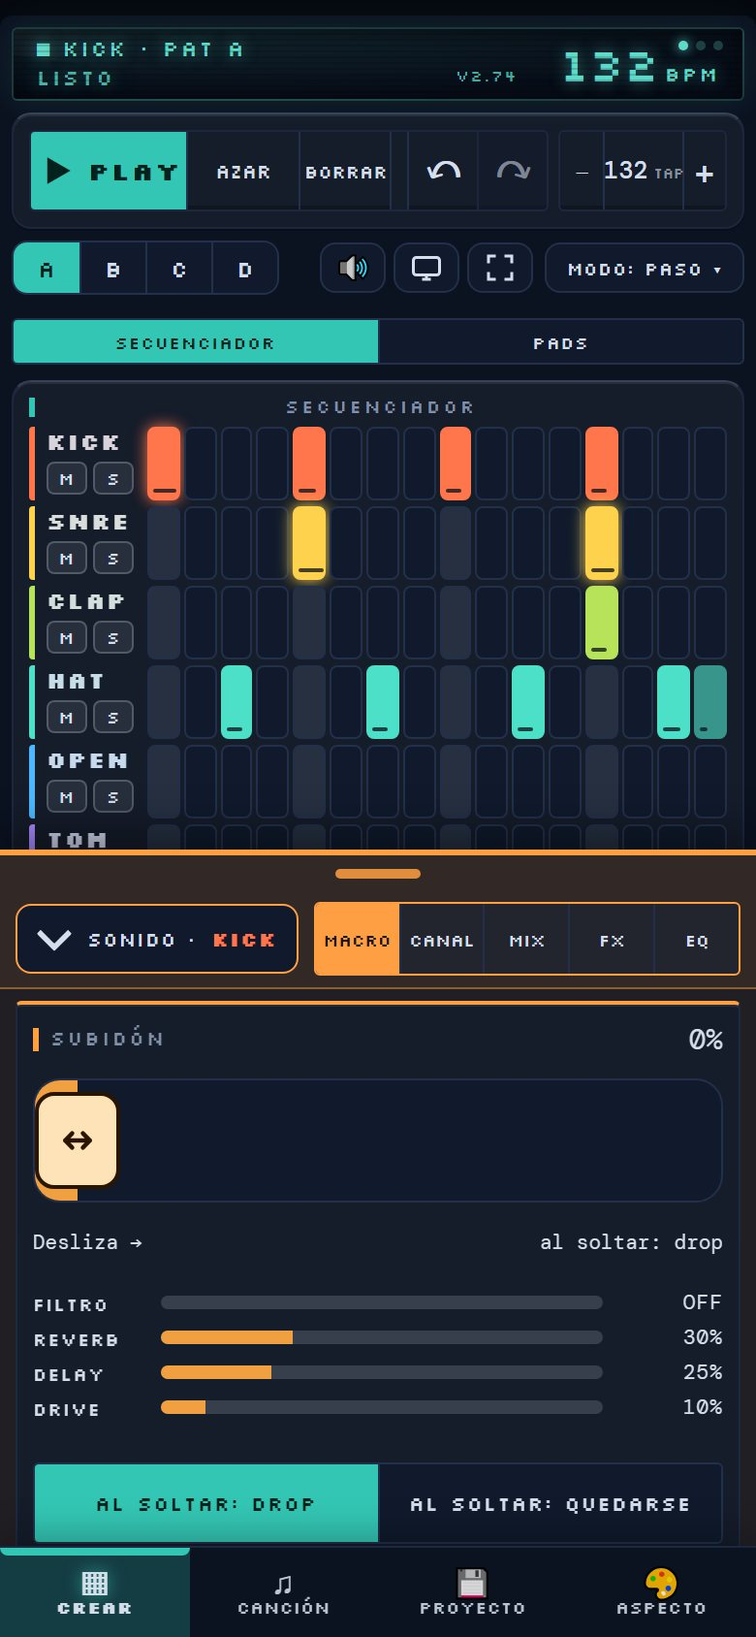
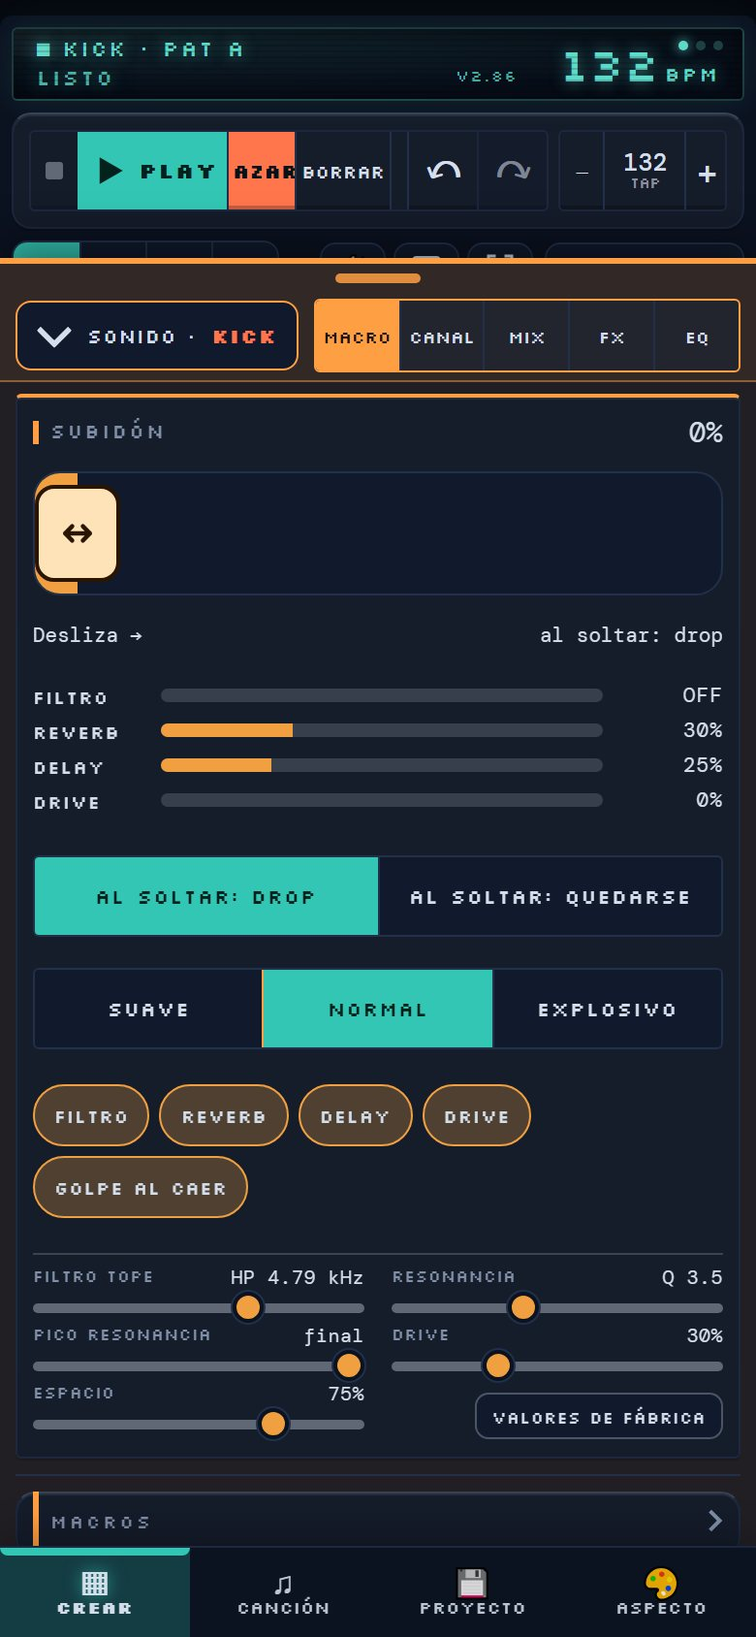
Manual actualizado a la v2.86: capturas nuevas y secciones reescritas
- Capturas nuevas de todas las pantallas (390x844, doble resolucion) y 4 nuevas: Pads Notas, Piano roll, Piano roll de bateria y master de Mix.
- Secciones nuevas o reescritas: Transporte (Stop, Pausa, Azar muta), Pads, Piano roll, Mix (Limitador, Master), FX, EQ y Consejos.
- tools/capturas-manual.js regenera las capturas con Chrome sin pantalla.

diff --git a/tools/capturas-manual.js b/tools/capturas-manual.js
@@ -1,0 +1,83 @@
+/* Genera las capturas del manual (manual/img) con Chrome sin pantalla.
+   Uso:  1) python -m http.server 5179   (desde la carpeta del proyecto)
+         2) node tools/capturas-manual.js
+   Necesita Chrome en la ruta de Windows habitual y Node 22 o superior (usa WebSocket y fetch propios).
+   Las capturas salen a 390x844 con carátula Neón, a doble resolución. */
+const { spawn } = require('child_process'), fs = require('fs'), path = require('path'), os = require('os');
+const CHROME = process.env.CHROME || 'C:/Program Files/Google/Chrome/Application/chrome.exe';
+const URL = process.env.APP || 'http://localhost:5179/index.html';
+const OUT = path.join(__dirname, '..', 'manual', 'img');
+const PORT = 9333, sleep = ms => new Promise(r => setTimeout(r, ms));
+
+(async () => {
+  fs.mkdirSync(OUT, { recursive: true });
+  const prof = fs.mkdtempSync(path.join(os.tmpdir(), 'pulso-cap-'));
+  const ch = spawn(CHROME, ['--headless=new', '--remote-debugging-port=' + PORT, '--user-data-dir=' + prof, '--hide-scrollbars',
+    '--autoplay-policy=no-user-gesture-required', '--no-first-run', '--window-size=390,844', 'about:blank'], { stdio: 'ignore' });
+  let tabs;
+  for (let i = 0; i < 40; i++) { try { tabs = await (await fetch('http://127.0.0.1:' + PORT + '/json')).json(); if (tabs.find(t => t.type === 'page')) break } catch (e) {} await sleep(250) }
+  const ws = new WebSocket(tabs.find(t => t.type === 'page').webSocketDebuggerUrl);
+  await new Promise(r => ws.onopen = r);
+  let id = 0; const pend = new Map();
+  ws.onmessage = e => { const m = JSON.parse(e.data); if (m.id && pend.has(m.id)) { pend.get(m.id)(m); pend.delete(m.id) } };
+  const send = (method, params = {}) => new Promise(res => { const i = ++id; pend.set(i, res); ws.send(JSON.stringify({ id: i, method, params })) });
+  const ev = async expr => { const r = await send('Runtime.evaluate', { expression: expr, awaitPromise: true, returnByValue: true }); if (r.result.exceptionDetails) throw new Error(expr.slice(0, 80) + ' -> ' + JSON.stringify(r.result.exceptionDetails.exception || r.result.exceptionDetails)); return r.result.result.value };
+  const shot = async (name, clip) => { const r = await send('Page.captureScreenshot', { format: 'jpeg', quality: 84, ...(clip ? { clip: { x: clip.x, y: clip.y, width: clip.w, height: clip.h, scale: 1 } } : {}) }); fs.writeFileSync(path.join(OUT, name), Buffer.from(r.result.data, 'base64')); console.log('ok', name) };
+  const rect = async sel => ev(`(()=>{const e=document.querySelector(${JSON.stringify(sel)});const r=e.getBoundingClientRect();return{x:Math.max(0,r.left-4),y:Math.max(0,r.top+scrollY-4),w:Math.min(innerWidth,r.width+8),h:r.height+8}})()`);
+
+  await send('Page.enable'); await send('Runtime.enable');
+  await send('Emulation.setDeviceMetricsOverride', { width: 390, height: 844, deviceScaleFactor: 2, mobile: true });
+  const load = async () => { await send('Page.navigate', { url: URL }); await sleep(1800); await ev(`(()=>{const s=document.createElement('style');s.textContent='*{transition:none!important;animation:none!important}';document.head.appendChild(s);
+    window.$$=s=>[...document.querySelectorAll(s)];window.wait=ms=>new Promise(r=>setTimeout(r,ms));
+    window.go=async(g,t,d)=>{$$('#tabs button').find(b=>b.dataset.g===g).click();await wait(250);if(t){const b=$$('#subs button').find(x=>x.dataset.t===t);if(b){b.click();await wait(300)}}
+      const q=s=>document.querySelector(s),open=q('#sndTog').getAttribute('aria-expanded')==='true';
+      if(d==='closed'&&open){q('#sndTog').click();await wait(250)}
+      if(d&&d!=='closed'){if(!open){q('#sndTog').click();await wait(250)}$$('#sndTabs button').find(b=>b.dataset.t===d).click();await wait(450)}
+      window.scrollTo(0,0)};return 1})()`) };
+  await load(); await ev('localStorage.clear()'); await load();
+
+  // 1. Crear y secuenciador
+  await ev(`go('crear','seq','closed')`);
+  await shot('01-crear.jpg');
+  const head = await ev(`(()=>{const a=document.querySelector('.trans').getBoundingClientRect(),b=document.querySelector('.prow').getBoundingClientRect();return{x:0,y:a.top-6,w:innerWidth,h:b.bottom-a.top+12}})()`);
+  await shot('02-transporte.jpg', head);
+  await shot('03-rejilla.jpg', await rect('#grid'));
+  await ev(`document.querySelector('#modeB').click()`); await sleep(500);
+  await shot('04-modos.jpg');
+  await load();
+
+  // 2. Pads y piano roll
+  await ev(`go('crear','pads','closed')`); await shot('05-pads.jpg');
+  await ev(`(async()=>{document.querySelector('#padMel').click();await wait(300);$$('#padSnd button').find(b=>b.textContent==='ACID').click();await wait(400)})()`);
+  await shot('05b-pads-notas.jpg');
+  await ev(`go('crear','roll','closed')`);
+  await ev(`(async()=>{$$('#rollSnd button').find(b=>b.textContent==='ACID').click();await wait(400)})()`);
+  await shot('05c-piano-roll.jpg');
+  await ev(`(async()=>{$$('#rollSnd button').find(b=>b.textContent==='KICK').click();await wait(400)})()`);
+  await shot('05d-piano-roll-bateria.jpg');
+
+  // 3. Canción, proyecto y aspecto
+  await ev(`go('song',null,'closed')`); await shot('06-cancion.jpg');
+  await ev(`go('file',null,'closed')`); await shot('07-proyecto.jpg');
+  await ev(`go('look',null,'closed')`); await shot('08-aspecto.jpg');
+  await ev(`window.scrollTo(0,document.body.scrollHeight)`); await sleep(300); await shot('08b-aspecto-manual.jpg');
+
+  // 4. Panel Sonido (se agranda el panel para que se vea mas contenido)
+  const dock = async (tab, extra) => { await ev(`go('crear','seq','${tab}')`); await ev(`(async()=>{const b=document.querySelector('#sndBody');b.style.maxHeight='600px';b.scrollTop=0;await wait(300)})()`); if (extra) await ev(extra); await sleep(200) };
+  await dock('macro'); await shot('09-macro.jpg');
+  await ev(`(async()=>{const b=document.querySelector('#sndBody');b.scrollTop=b.scrollHeight;await wait(300)})()`); await shot('10-macro-ajustes.jpg');
+  await dock('canal'); await shot('11-canal.jpg');
+  await dock('mix', `(async()=>{document.querySelector('#play').click();await wait(2600)})()`);
+  await shot('12-mix.jpg');
+  await ev(`(async()=>{if(document.querySelector('#mixMstFx').hidden)document.querySelector('#mstTog').click();await wait(300);const b=document.querySelector('#sndBody');b.scrollTop+=document.querySelector('#mixMst').getBoundingClientRect().top-b.getBoundingClientRect().top-4;await wait(300)})()`);
+  await shot('12b-mix-master.jpg');
+  await ev(`document.querySelector('#stopb').click()`);
+  await dock('fx', `(async()=>{$$('.fxnav button').find(b=>b.textContent.includes('Master')).click();await wait(500);const b=document.querySelector('#sndBody');b.scrollTop+=document.querySelector('#fx_ms').getBoundingClientRect().top-b.getBoundingClientRect().top-4;await wait(300)})()`);
+  await shot('13-fx.jpg');
+  await dock('eq', `(async()=>{const b=document.querySelector('#sndBody');b.scrollTop+=document.querySelector('#eqc').getBoundingClientRect().top-b.getBoundingClientRect().top-30;await wait(300)})()`);
+  await shot('14-eq.jpg');
+
+  ws.close(); ch.kill();
+  try { fs.rmSync(prof, { recursive: true, force: true }) } catch (e) {}
+  process.exit(0);
+})().catch(e => { console.error('ERROR', e.message); process.exit(1) });

diff --git a/MANUAL.md b/MANUAL.md
@@ -1,10 +1,10 @@
 # Manual de Pulso Studio
 
-Pulso Studio es una **groovebox para el móvil** que funciona en el navegador: baterías, bajos y sintes, patrones, efectos y exportación a WAV, todo sin instalar nada.
+Pulso Studio es una **groovebox para el móvil** que funciona en el navegador: baterías, bajos y sintes, patrones, piano roll, efectos y exportación a WAV, todo sin instalar nada.
 
 Este manual explica cada pantalla con capturas. Las capturas usan la carátula **Neón**, pero todo funciona igual con las demás.
 
-> **Versión:** en la pantallita de la app, arriba a la derecha, pone la versión que tienes cargada (por ejemplo `v2.74`).
+> **Versión:** en la pantallita de la app, arriba a la derecha, pone la versión que tienes cargada (por ejemplo `v2.86`).
 
 ## 1. Primeros pasos
 
@@ -15,8 +15,8 @@ Abre la web en el navegador del móvil. Verás la pantalla de **Crear**: arriba 
 La pantalla se divide en cuatro zonas:
 
 - **Pantallita (LCD):** muestra el canal y el patrón elegidos, el estado y el tempo en BPM. Desliza el dedo por ella para cambiar de patrón A–D. Toca para cambiar entre onda y espectro.
-- **Transporte y patrones:** Play, Azar, Borrar, deshacer, rehacer, tempo y los patrones A B C D.
-- **Rejilla:** 10 pistas (canales) con sus pasos.
+- **Transporte y patrones:** Stop, Play, Azar, Borrar, deshacer, rehacer, tempo y los patrones A B C D.
+- **Vistas de Crear:** debajo de los patrones hay tres vistas: **Secuenciador** (la rejilla), **Pads** (tocar en directo) y **Piano roll** (dibujar notas).
 - **Panel Sonido y barra inferior:** el panel Sonido (Macro, Canal, Mix, FX, EQ) y las cuatro pestañas **Crear, Canción, Proyecto y Aspecto**.
 
 > **Consejo:** para usarla como una app, añade la web a la pantalla de inicio desde el menú del navegador. Se abre sin barras y a pantalla casi completa.
@@ -31,7 +31,7 @@ La rejilla tiene **10 pistas**, una por fila: seis baterías (**KICK, SNRE, CLAP
 - **Arrastrar en horizontal** pinta varios pasos de una pasada.
 - **Mantener pulsado** un paso encendido cambia su fuerza (suave, normal o fuerte).
 - **M** silencia la pista (mute) y **S** la deja sola (solo).
-- **Tocar el nombre** de la pista la elige: los controles del panel Sonido pasan a ese canal.
+- **Tocar el nombre** de la pista la elige: los controles del panel Sonido, el color del botón Azar y el ecualizador pasan a ese canal.
 - En las pistas melódicas, la fila **NOTA** debajo de la rejilla elige la nota de cada paso.
 
 ### Modos de paso
@@ -59,8 +59,9 @@ Bajo la rejilla, **Más herramientas** guarda funciones menos frecuentes:
 
 ![Transporte, patrones y botones de vista](manual/img/02-transporte.jpg)
 
-- **Play / Stop:** el botón grande. De color de acento para reproducir y rojo al sonar. Parar y volver a pulsar **empieza desde el principio**.
-- **Azar:** rellena la pista elegida con un patrón al azar, usando la escala del proyecto.
+- **Stop (el cuadrado, a la izquierda de Play):** para el sonido y vuelve al principio.
+- **Play / Pausa:** Play reproduce. Mientras suena, el botón pasa a **Pausa** (en rojo). Pausar **deja el paso donde estaba**, con la posición iluminada, y Play sigue desde ese mismo paso. Para volver al principio, usa Stop.
+- **Azar:** **muta** la pista elegida: cambia solo unos pocos pasos (cerca del 20 %) y deja el resto. Si la pista está vacía, genera un patrón nuevo con la escala del proyecto. El botón toma el color de la pista elegida. Se puede deshacer.
 - **Borrar:** vacía la pista elegida del patrón actual.
 - **Deshacer y rehacer:** ver más abajo.
 - **Tempo:** `−` y `+` cambian el BPM de uno en uno. Toca el número varias veces al ritmo que quieras para marcar el tempo (**TAP**). El tempo por defecto es **132**.
@@ -78,20 +79,51 @@ Deshacer y rehacer guardan **todo el proyecto**, no solo las notas: secuencia, c
 - Mover un deslizador **sin soltar** cuenta como un solo paso, aunque hagas pausas.
 - Grabar con los pads es un solo paso.
 - El mensaje de la pantallita dice qué se deshizo: SECUENCIA, MEZCLA, FX, EQ…
-- **No entran** la carátula, el estilo, las luces, el audio ni Play y Stop.
+- **No entran** la carátula, el estilo, las luces, el audio ni Play, Pausa y Stop.
 
 ## 4. Pads
 
-La pestaña **Pads** se abre desde la fila Secuenciador | Pads. Cada pad toca el sonido de un canal en directo.
+La vista **Pads** es para tocar en directo. Tiene dos modos: **Batería** y **Notas**.
 
-![Pantalla Pads](manual/img/05-pads.jpg)
+![Pads en modo Batería: diez pads pequeños y el filtro DJ](manual/img/05-pads.jpg)
 
+- **Batería:** diez pads, uno por canal. Cada pad toca su sonido.
 - **● REC:** con Play activo, lo que toques se **graba** en el patrón que suena. Toda la grabación se deshace de una vez.
 - **Cuantizar:** ajusta lo grabado al paso más cercano. Apagado, guarda la posición exacta.
-- **🎹 Notas:** convierte los pads en un teclado para el canal melódico elegido.
 - **Filtro DJ:** a la izquierda es un filtro de agudos (low pass) y a la derecha un filtro de graves (high pass). Doble toque lo centra.
 
-## 5. Canción
+### Modo Notas
+
+**🎹 Notas** convierte los pads en un teclado de ocho notas de la escala.
+
+![Pads en modo Notas: elige el sonido y la octava](manual/img/05b-pads-notas.jpg)
+
+- **Elige el sonido arriba:** SUB, ACID, STAB o LEAD, cada uno con su color. Los pads tocan las notas de ese sonido.
+- **OCT − / OCT +:** sube o baja una octava. SUB no baja de la octava 0, porque sonaría por debajo de lo audible.
+- Con **REC**, la octava elegida se graba también.
+
+## 5. Piano roll
+
+El piano roll sirve para **escribir** melodías y ritmos viendo las notas. Se abre desde la vista **Piano roll** de Crear.
+
+![Piano roll de ACID: filas de notas, pasos en columnas y barra de fuerza](manual/img/05c-piano-roll.jpg)
+
+- **Elige el sonido** en los diez botones de arriba: cuatro melódicos y seis baterías.
+- Cada **fila** es una nota de la escala del proyecto y cada **columna** un paso. En ACID, con 32 pasos, aparecen dos páginas (1–16 y 17–32).
+- **Tocar una casilla** pone o quita la nota. **Arrastrar** pinta o borra varias seguidas.
+- Hay **una nota por paso** y cada nota dura un paso. No hay acordes.
+- **OCT − / OCT +** cambia el rango de octavas que ves. Si una nota queda fuera, se ve atenuada en la fila más cercana.
+- Con Play, un cursor recorre las columnas.
+
+**Baterías.** Una batería no tiene notas, así que cada sonido tiene su propia escala de **afinación en semitonos**. La fila **0** es el sonido original; las de arriba suenan más agudas (+) y las de abajo más graves (−).
+
+![Piano roll de una batería: la fila 0 es el sonido original](manual/img/05d-piano-roll-bateria.jpg)
+
+**Fuerza de las notas nuevas.** La barra **Fuerza** tiene tres posiciones: suave (45 %), normal (75 %) y fuerte (100 %). Lo que pintes a partir de ese momento sale con esa fuerza. Las notas flojas se ven más transparentes. El botón **A todas** aplica la fuerza elegida a todas las notas del sonido (se puede deshacer).
+
+> **Azar y Borrar** de arriba actúan sobre el sonido elegido. Dentro del piano roll, Azar usa la fuerza de la barra para las notas nuevas.
+
+## 6. Canción
 
 Aquí se monta el tema encadenando patrones.
 
@@ -104,7 +136,7 @@ Aquí se monta el tema encadenando patrones.
 - **Cadena A-D:** encadena los cuatro patrones sin entrar en el modo canción.
 - **Pistas de audio:** puedes cargar audios que suenan en los compases que marques y se ajustan al tempo según su BPM original.
 
-## 6. Proyecto
+## 7. Proyecto
 
 Guarda, comparte y exporta lo que has hecho.
 
@@ -117,11 +149,13 @@ Guarda, comparte y exporta lo que has hecho.
 - **Exportar audio:** elige 1, 2, 4 u 8 vueltas y pulsa **Exportar WAV**. Se calcula al instante, sin cortes, a 16 bits y a la frecuencia de tu móvil.
 - **Grabar en tiempo real (.webm):** graba lo que suena mientras suena.
 
-## 7. El panel Sonido
+Los proyectos guardados con versiones anteriores se abren sin problema: la app los adapta sola al abrirlos.
+
+## 8. El panel Sonido
 
 Bajo la rejilla siempre está el panel **Sonido**. Tócalo (la flecha) para abrirlo o cerrarlo. Arrastra la **asa** de arriba para cambiar su altura; doble toque la deja en la altura normal. Tiene cinco pestañas: **Macro, Canal, Mix, FX y EQ**.
 
-### 7.1 Macro
+### 8.1 Macro
 
 Dos cosas: el **subidón** y los **seis macros**.
 
@@ -132,6 +166,7 @@ Dos cosas: el **subidón** y los **seis macros**.
 - **Al soltar: Drop** vuelve todo de golpe a como estaba y suena un golpe. **Quedarse** deja el deslizador donde lo sueltes.
 - **Curva:** Suave (sube pronto), Normal o Explosivo (sube al final).
 - **Chips:** elige qué sube (Filtro, Reverb, Delay, Drive) y si quieres el **Golpe al caer**.
+- **Volumen estable:** mientras mueves la barra, la app vigila el volumen y lo corrige sola para que se mantenga parecido al de antes. Al soltar vuelve al nivel de antes. Al final de la barra el filtro quita casi todos los graves y el volumen baja de forma natural.
 
 ![Ajustes del subidón y los seis macros](manual/img/10-macro-ajustes.jpg)
 
@@ -140,12 +175,12 @@ Debajo hay **cinco ajustes** para dejar el subidón a tu gusto:
 - **Filtro tope:** hasta qué frecuencia sube el filtro (de 1 a 10 kHz).
 - **Resonancia:** cuánto silba el filtro al subir.
 - **Pico resonancia:** en qué punto del recorrido es más fuerte (inicio, mitad o final).
-- **Drive** y **Espacio:** hasta dónde suben el drive y la reverb con el delay.
+- **Drive** (por defecto 30 %) y **Espacio:** hasta dónde suben el drive y la reverb con el delay.
 - **Valores de fábrica** los restaura. Doble toque en un ajuste lo devuelve a su valor.
 
 **Los seis macros** (DJ, Reverb, Delay, Drive, Sidechain y Master) están plegados bajo el nombre **Macros**. Tócalo para desplegarlos. Doble toque en un deslizador lo reinicia.
 
-### 7.2 Canal
+### 8.2 Canal
 
 Todo sobre el canal que has elegido.
 
@@ -160,45 +195,67 @@ Todo sobre el canal que has elegido.
 - **Mis kits guardados:** guarda y recupera tus ajustes de baterías.
 - **SUB y sintes:** onda (Sin, Tri, Saw, Sqr), tono y escala, y **Capa +1 octava**.
 
-### 7.3 Mix
+### 8.3 Mix
 
-El mezclador.
+El mezclador. De arriba abajo: el **Limitador**, el **Master**, y después los canales.
 
-![Pestaña Mix](manual/img/12-mix.jpg)
+![Pestaña Mix: limitador, master y canales](manual/img/12-mix.jpg)
 
-- **Fader:** el volumen de cada canal, con la escala en dB al lado.
+**Limitador.** Es un limitador de picos: lo que pase de cierto nivel se atenúa, y lo que no llega, pasa sin cambios. Se pliega tocando su nombre. Tiene dos barras:
+
+- **TECHO** (de −12 a 0 dBFS, por defecto −1 dB): el nivel máximo que dejará pasar. Solo atenúa lo que se pase de ahí.
+- **ENTRADA** (de 0 a +12 dB, por defecto 0 dB): sube la señal antes de limitar. Solo subes el volumen si tú lo pides, y se ve el valor.
+- **Vúmetro ENTRADA:** muestra el nivel que llega al limitador, de −48 a +12 dB. La raya fina es 0 dB y la gruesa es donde empieza a limitar. Cuando el limitador atenúa, la barra se pone naranja y sale la reducción en dB (**RED.**). Pasar de 0 dB aquí no es un fallo: el limitador lo recoge.
+- **Doble toque** en una barra la devuelve a su valor por defecto.
+
+**Master.** Una placa propia, tumbada, bajo el limitador.
+
+![El master desplegado: ajustes, fader, medidor y pantalla NIVEL y PICO](manual/img/12b-mix-master.jpg)
+
+- **Placa MASTER:** toca la placa para **mostrar u ocultar los ajustes del master** (Low pass, High pass, Medios, Resonancia HP, Frec. medios, Brillo, Ancho estéreo, Drive, Swing y Humanizar). Son los mismos de FX → Master, y se mueven a la vez. Doble toque restablece cada ajuste.
+- **LED de la placa:** apagado cuando todo va bien, **naranja** si el limitador trabaja bastante o el master empieza a saturar, y **rojo** si distorsiona.
+- **Fader horizontal, medidor de LEDs y escala en dB:** el volumen del master y su nivel.
+- **NIVEL y PICO:** el pico es el valor más alto que ha pasado por el master desde la última vez. El botón **↺** lo reinicia. Solo mide con la pestaña Mix abierta.
+
+**Canales.** Baterías y Sintes tienen cada uno su tira:
+
+- **Fader:** el volumen del canal, con el medidor y la escala en dB al lado.
 - **Pan:** reparte el sonido entre izquierda y derecha.
 - **M y S:** mute y solo.
 - **Toca el nombre** para abrir ese canal en la pestaña Canal.
 - **Doble toque** en un fader o en el pan lo reinicia.
 
-### 7.4 FX
+### 8.4 FX
 
 Los efectos, organizados como una cadena de módulos.
 
-![Pestaña FX](manual/img/13-fx.jpg)
+![Pestaña FX con el módulo Master](manual/img/13-fx.jpg)
 
 - **Tira de módulos:** **Envíos** (Reverb, Delay) y **Master** (Master, Chorus, Filtro, Crush, Sidechain, Compresor). Toca un módulo para ver solo ese efecto.
 - **LED de cada módulo:** enciende o apaga el efecto sin cambiar de efecto.
 - **Reverb y Delay** son **envíos**: se mandan desde cada canal con el control Reverb o Delay de la pestaña Canal.
 - **Chorus/Flanger, Filtro LFO, Bitcrusher y Compresor** actúan sobre toda la mezcla.
 - **Sidechain:** el kick baja el volumen de los canales marcados, para que los graves respiren.
-- **Master:** volumen, filtros, medios, brillo, ancho estéreo, drive, swing, humanizar y limitador.
-- **Doble toque** en un control lo devuelve a su valor.
+- **Master:** filtros (con **Resonancia LP** y **Resonancia HP**), medios, brillo, ancho estéreo, drive, swing, humanizar, **Limitador: techo**, **Limitador: entrada** y volumen.
+- **Doble toque** en un control lo devuelve a su valor. Por defecto el drive del master está en 0 % y la ganancia del compresor en 0 dB.
 
-### 7.5 EQ
+### 8.5 EQ
 
 El ecualizador, por canal y para el master.
 
 ![Pestaña EQ](manual/img/14-eq.jpg)
 
-- Elige arriba el canal (o MST para el master).
-- Cada canal tiene hasta **8 bandas**.
-- **Tipos de banda:** campana, shelf y notch, además de cortes de graves y agudos.
+- Elige arriba el canal (o MST para el master). El **nombre del sonido** sale arriba a la derecha de la gráfica.
+- **Lectura de la gráfica:** la línea gruesa es el ajuste del EQ y el área de fondo es el sonido real. El eje de +24 a −24 dB es cuánto sube o baja cada banda; no es el nivel de salida del master.
+- Cada canal tiene hasta **8 bandas**. Toca **＋** o haz doble toque en la curva para crear una; arrastra su punto para cambiar frecuencia y ganancia.
+- **Tipos de banda**, ordenados de graves a agudos: corte grave, shelf grave, campana, notch, shelf agudo y corte agudo.
+- **Notch con profundidad:** tiene un deslizador de **Profundidad** de −0,5 a −24 dB. −24 dB es el notch total; con menos profundidad se parece a una campana estrecha de corte.
+- **Ajustes rápidos**, justo bajo la gráfica: **Plano** deja las bandas a 0 dB sin borrarlas (los cortes y el notch se quedan apagados), y **Sin sub, Sin graves, +Graves, −Barro y Brillo** añaden una banda lista.
 - **ON** enciende o apaga la banda elegida; el cubo la borra.
+- **Sin bandas, sin filtros:** un canal sin bandas no gasta recursos. Al añadir o encender una banda, el bypass se apaga solo.
 - **EQ BYPASS** apaga toda la ecualización para comparar.
 
-## 8. Aspecto
+## 9. Aspecto
 
 Esta pestaña cambia cómo se ve la app y da acceso a este manual.
 
@@ -212,7 +269,7 @@ Esta pestaña cambia cómo se ve la app y da acceso a este manual.
 
 ![Al final de Aspecto está el botón del manual](manual/img/08b-aspecto-manual.jpg)
 
-## 9. Consejos y problemas habituales
+## 10. Consejos y problemas habituales
 
 **El audio se corta o chisporrotea.**
 - En Aspecto, pon **Audio: Estable** y recarga la página.
@@ -223,6 +280,14 @@ Esta pestaña cambia cómo se ve la app y da acceso a este manual.
 - El Sidechain debe estar encendido: es el que aparta el sub y el acid del kick.
 - Prueba a silenciar ACID o a quitar la **Capa +1 octava** del SUB para ver cuál tapa.
 - Los altavoces del móvil casi no reproducen graves; con auriculares se nota mucho más.
+
+**El LED del master se pone naranja o rojo, o el sonido distorsiona.**
+- Mira el Limitador de Mix. Si **ENTRADA** muestra una reducción (RED.) alta, el limitador está atenuando mucho.
+- Baja un poco los faders de los canales, o baja la barra **ENTRADA** del limitador. Bajar el fader del master no lo evita, porque actúa después.
+- Si quieres un límite más bajo, baja el **TECHO**.
+
+**Los números de los medidores no coinciden entre sí.**
+- Cada uno mide un punto distinto. El vúmetro de un canal mide solo ese canal, ya con su fader. La entrada del limitador mide la suma de todos los canales y efectos, antes del limitador. El master mide lo que sale, ya con su fader. Por eso un canal a −6 dB puede acabar con una suma que pasa de 0 dB antes del limitador y un pico del master cerca de −3 dB.
 
 **No veo la última versión.**
 - La página se guarda unos minutos en el móvil. Cierra la pestaña y vuelve a abrirla.

diff --git a/CHANGELOG.md b/CHANGELOG.md
@@ -517,3 +517,8 @@ Mejoras previstas: 1) pantalla completa y pestañas abajo, 2) gestos y vibració
 - Limitador en Mix: el vumetro ENTRADA llega hasta +12 dB (antes se quedaba en 0 dB y no se veia cuanto se pasaba), con una raya en 0 dB, el valor numerico del pico al lado de ENTRADA y la barra en rojo cuando la suma de los canales pasa de 0 dB antes del limitador.
 - Limitador rehecho como limitador de verdad: dos barras en Mix. TECHO (de -12 a 0 dBFS, por defecto -1): lo que pase de ahi se atenua, lo que no llega al techo pasa sin cambios. ENTRADA (de 0 a +12 dB, por defecto 0): sube la senal antes de limitar, solo si tu lo pides. Se quita la subida oculta de +2 dB que llevaba el limitador (antes el techo era -2 dBFS y luego subia +2 dB, siempre dentro del recortador final) y el recortador suave final empieza ahora en 0,92 en vez de 0,8. El vumetro ENTRADA muestra tambien la reduccion en dB (RED.). El aviso del pico del master se basa en esa reduccion (naranja mas de 3 dB, rojo mas de 6 dB) y en el recortador final. Los proyectos antiguos se migran con el mismo volumen (un +3,6 dB de antes pasa a Entrada +3,6 dB; un techo bajado pasa a Techo). FX > Master tiene los dos ajustes (Limitador: techo, Limitador: entrada). Nuevo dato lig; limv pasa a 3.
 - Para revertir: git revert del commit v2.86.
+
+## Manual (2026-10-31) — Claude
+- Manual actualizado a la v2.86: capturas nuevas de todas las pantallas (390x844 a doble resolucion) y secciones nuevas o reescritas de Transporte (Stop, Pausa, Azar que muta), Pads (Bateria y Notas), Piano roll, Mix (Limitador con Techo y Entrada, Master tumbado), FX, EQ y Consejos.
+- Nuevo tools/capturas-manual.js: regenera las capturas del manual con Chrome sin pantalla (instrucciones al principio del archivo).
+
